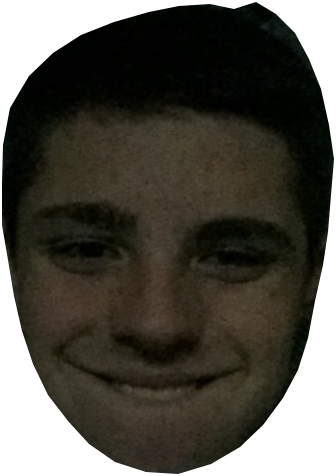
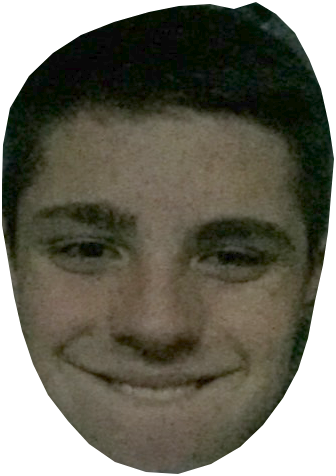
Brighten only dark bottom-left photo cutout

diff --git a/index.html b/index.html
@@ -22,7 +22,7 @@
 <main>
  <p id="error" role="alert" hidden></p><p id="stale" class="notice" hidden></p>
  <section id="home" aria-labelledby="home-title">
-  <div class="friend-faces" aria-hidden="true"><img class="friend-face" src="./friend-original-01.png?v=2" alt="" decoding="sync"><img class="friend-face" src="./friend-original-02.png?v=2" alt="" decoding="sync"><img class="friend-face" src="./friend-original-03.png" alt="" decoding="sync"><img class="friend-face" src="./friend-original-04.png" alt="" decoding="sync"><img class="friend-face" src="./friend-original-05.png?v=2" alt="" decoding="sync"><img class="friend-face" src="./friend-original-06.png?v=2" alt="" decoding="sync"><img class="friend-face" src="./friend-original-07.png?v=2" alt="" decoding="sync"><img class="friend-face" src="./friend-original-08.png" alt="" decoding="sync"><img class="friend-face" src="./friend-original-09.png" alt="" decoding="sync"></div>
+  <div class="friend-faces" aria-hidden="true"><img class="friend-face" src="./friend-original-01.png?v=2" alt="" decoding="sync"><img class="friend-face" src="./friend-original-02.png?v=2" alt="" decoding="sync"><img class="friend-face" src="./friend-original-03.png" alt="" decoding="sync"><img class="friend-face" src="./friend-original-04.png" alt="" decoding="sync"><img class="friend-face" src="./friend-original-05.png?v=3" alt="" decoding="sync"><img class="friend-face" src="./friend-original-06.png?v=2" alt="" decoding="sync"><img class="friend-face" src="./friend-original-07.png?v=2" alt="" decoding="sync"><img class="friend-face" src="./friend-original-08.png" alt="" decoding="sync"><img class="friend-face" src="./friend-original-09.png" alt="" decoding="sync"></div>
   <h1 id="home-title">Daily<span>Cong</span></h1>
   <p class="intro">No exclusion.</p>
   <div class="issue"><span id="edition">DAILY QUIZ</span><span class="issue-dot" aria-hidden="true">·</span><time id="edition-date"></time></div>
